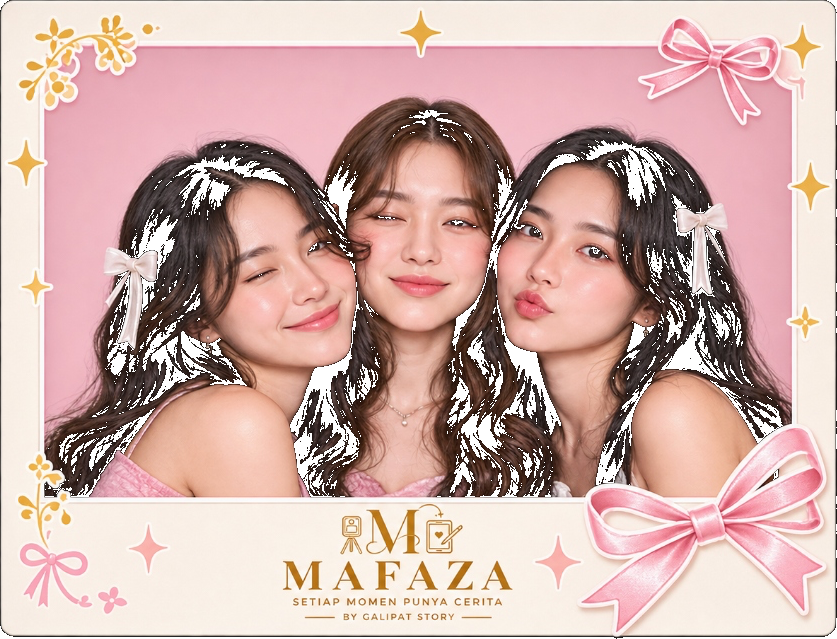
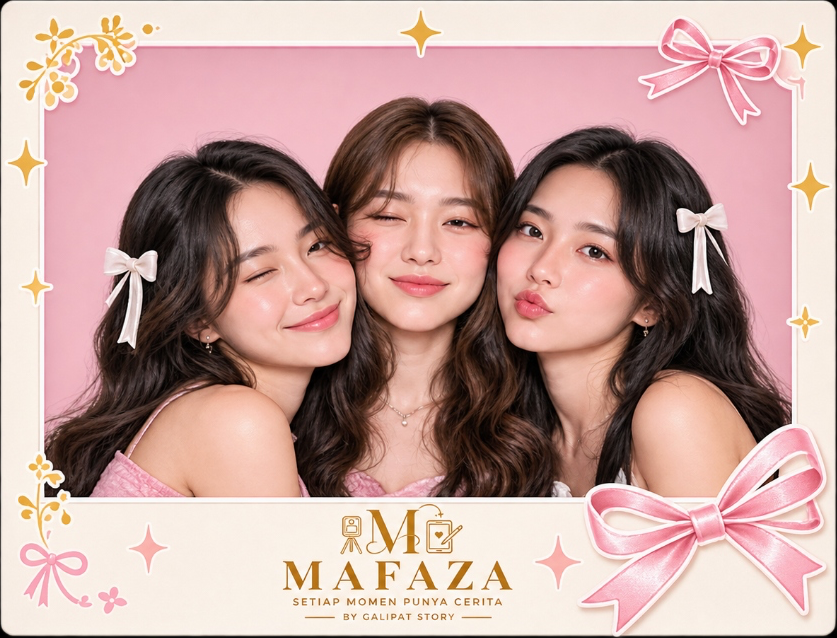
fix(landing): restore natural hair without clipping on Single & Landscape frames and center-align frame tabs

diff --git a/public/index.html b/public/index.html
@@ -23,7 +23,7 @@
   <link href="https://fonts.googleapis.com/css2?family=Caveat:wght@600;700&family=Fraunces:ital,opsz,wght@0,9..144,600;0,9..144,700;0,9..144,800;1,9..144,600;1,9..144,700&family=Great+Vibes&family=Plus+Jakarta+Sans:wght@400;500;600;700;800&family=Poppins:wght@400;500;600;700;800&display=swap" rel="stylesheet">
 
   <!-- Custom Landing Page Stylesheet -->
-  <link rel="stylesheet" href="/css/landing.css?v=2.6">
+  <link rel="stylesheet" href="/css/landing.css?v=2.7">
 </head>
 <body>
 
@@ -535,7 +535,7 @@
       <!-- Tab Content: Strip 3 -->
       <div class="frame-tab-content active" id="tab-strip3">
         <div class="frame-preview-image-box">
-          <img src="/assets/pl/frame_strip3.png?v=2" alt="Layout Frame Strip 3 Mafaza" class="frame-showcase-img" loading="lazy">
+          <img src="/assets/pl/frame_strip3.png?v=3" alt="Layout Frame Strip 3 Mafaza" class="frame-showcase-img" loading="lazy">
         </div>
         <div class="frame-info-box">
           <span class="hero-pill-badge">⭐ Paling Diminati Tamu</span>
@@ -557,7 +557,7 @@
       <!-- Tab Content: Single -->
       <div class="frame-tab-content" id="tab-single">
         <div class="frame-preview-image-box">
-          <img src="/assets/pl/frame_single.png?v=2" alt="Layout Frame Single Mafaza" class="frame-showcase-img" loading="lazy">
+          <img src="/assets/pl/frame_single.png?v=3" alt="Layout Frame Single Mafaza" class="frame-showcase-img" loading="lazy">
         </div>
         <div class="frame-info-box">
           <span class="hero-pill-badge">✨ Portrait Eksklusif</span>
@@ -579,7 +579,7 @@
       <!-- Tab Content: 2 Shots -->
       <div class="frame-tab-content" id="tab-2shots">
         <div class="frame-preview-image-box">
-          <img src="/assets/pl/frame_2shots.png?v=2" alt="Layout Frame 2 Shots Mafaza" class="frame-showcase-img" loading="lazy">
+          <img src="/assets/pl/frame_2shots.png?v=3" alt="Layout Frame 2 Shots Mafaza" class="frame-showcase-img" loading="lazy">
         </div>
         <div class="frame-info-box">
           <span class="hero-pill-badge">💕 Dua Momen Manis</span>
@@ -601,7 +601,7 @@
       <!-- Tab Content: Strip 4 -->
       <div class="frame-tab-content" id="tab-strip4">
         <div class="frame-preview-image-box">
-          <img src="/assets/pl/frame_strip4.png?v=2" alt="Layout Frame Strip 4 Mafaza" class="frame-showcase-img" loading="lazy">
+          <img src="/assets/pl/frame_strip4.png?v=3" alt="Layout Frame Strip 4 Mafaza" class="frame-showcase-img" loading="lazy">
         </div>
         <div class="frame-info-box">
           <span class="hero-pill-badge">👭 Seru Bareng Sahabat</span>
@@ -623,7 +623,7 @@
       <!-- Tab Content: Landscape -->
       <div class="frame-tab-content" id="tab-landscape">
         <div class="frame-preview-image-box">
-          <img src="/assets/pl/frame_landscape.png?v=2" alt="Layout Frame Landscape Mafaza" class="frame-showcase-img" loading="lazy">
+          <img src="/assets/pl/frame_landscape.png?v=3" alt="Layout Frame Landscape Mafaza" class="frame-showcase-img" loading="lazy">
         </div>
         <div class="frame-info-box">
           <span class="hero-pill-badge">👨👩👧👦 Foto Rombongan &amp; Keluarga</span>

diff --git a/public/css/landing.css b/public/css/landing.css
@@ -1150,9 +1150,12 @@ body {
 .frame-tabs-nav {
   display: flex;
   justify-content: center;
+  align-items: center;
   gap: 12px;
   flex-wrap: wrap;
-  margin-bottom: 36px;
+  margin: 0 auto 36px;
+  width: 100%;
+  text-align: center;
 }
 
 .frame-tab-btn {
@@ -2305,26 +2308,22 @@ body {
 
   .frame-tabs-nav {
     display: flex;
-    overflow-x: auto;
-    flex-wrap: nowrap;
-    gap: 8px;
-    padding-bottom: 10px;
-    -webkit-overflow-scrolling: touch;
-    scrollbar-width: none;
+    flex-wrap: wrap;
+    justify-content: center;
+    align-items: center;
+    gap: 8px 10px;
+    margin: 0 auto 24px;
     width: 100%;
     box-sizing: border-box;
-    justify-content: flex-start;
-  }
-
-  .frame-tabs-nav::-webkit-scrollbar {
-    display: none;
+    padding: 0;
   }
 
   .frame-tab-btn {
     flex-shrink: 0;
     white-space: nowrap;
-    padding: 8px 14px;
-    font-size: 12.5px;
+    padding: 8px 16px;
+    font-size: 13px;
+    text-align: center;
   }
 
   .frame-tab-content.active {

diff --git a/public/sw.js b/public/sw.js
@@ -6,7 +6,7 @@
  * dan tetap bisa dibuka kembali saat di-refresh (F5 / reload).
  */
 
-const CACHE_NAME = 'mafaza-offline-v3.44';
+const CACHE_NAME = 'mafaza-offline-v3.45';
 
 const PRECACHE_ASSETS = [
   '/',
